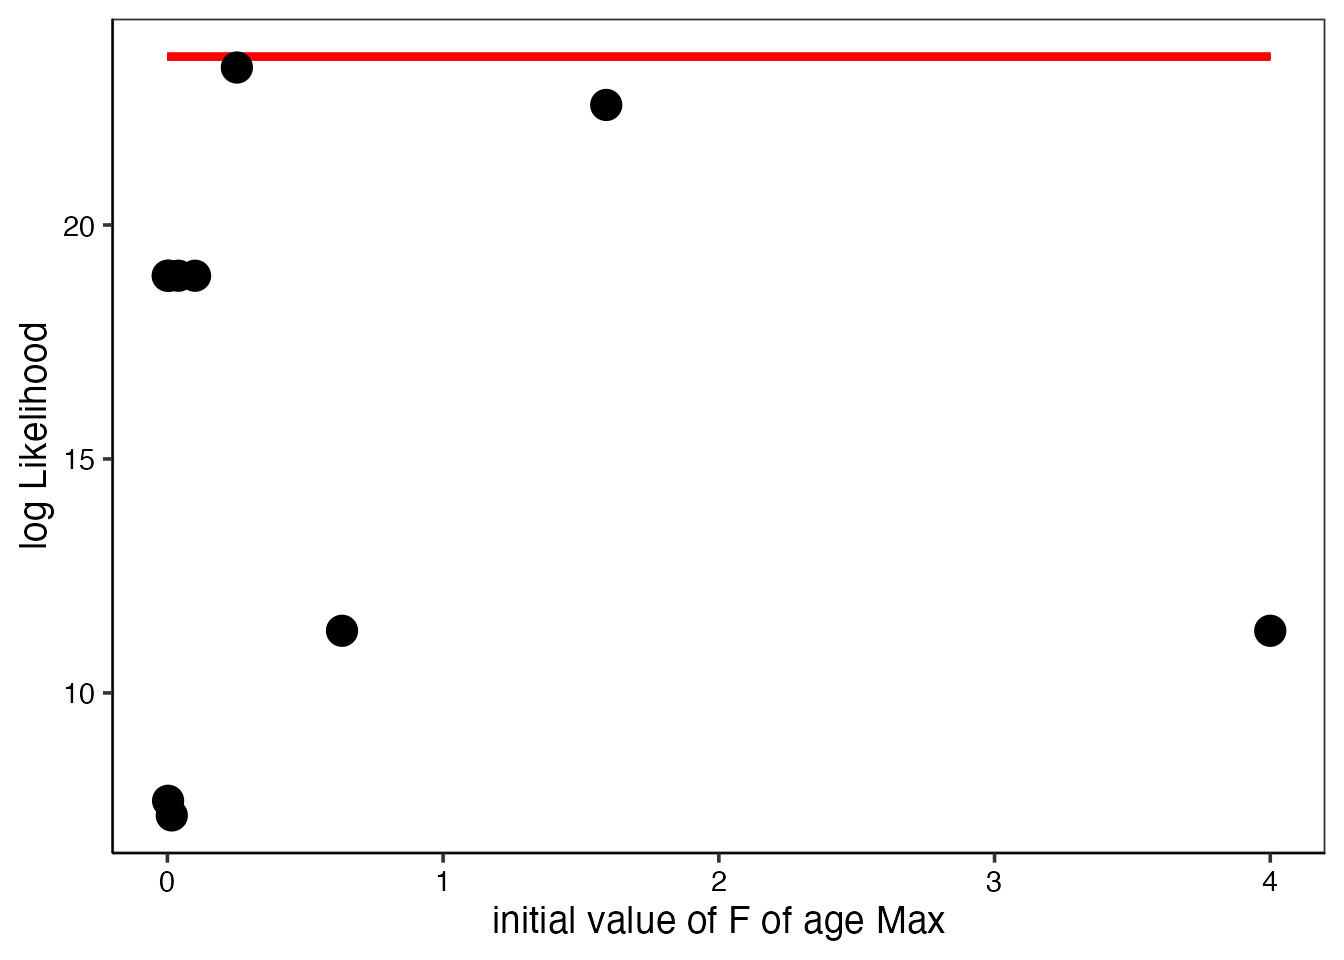
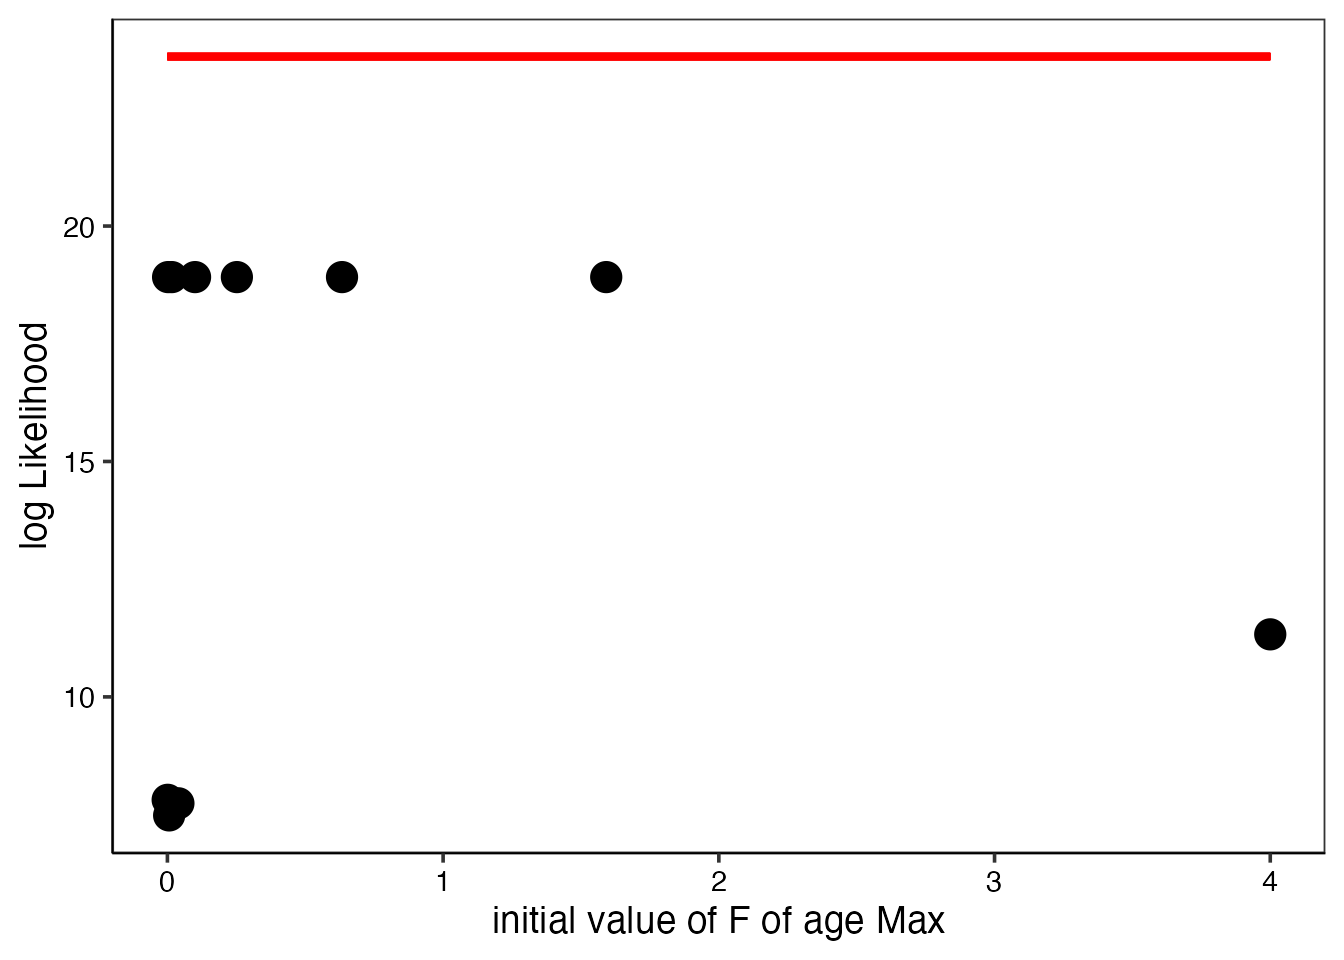
Built site for frasyr: 2.2.0.0@437c62c

diff --git a/articles/Diagnostics-for-VPA.html b/articles/Diagnostics-for-VPA.html
@@ -77,7 +77,7 @@
       <h1 data-toc-skip>VPAモデル診断スクリプト</h1>
                         <h4 data-toc-skip class="author">Kohei Hamabe &amp; Momoko Ichinokawa</h4>
             
-            <h4 data-toc-skip class="date">2021-06-17</h4>
+            <h4 data-toc-skip class="date">2021-06-18</h4>
       
       
       <div class="hidden name"><code>Diagnostics-for-VPA.Rmd</code></div>
@@ -440,7 +440,7 @@
 <p>を指定します。コマンドは以下の通りです。</p>
 <div class="sourceCode" id="cb25"><pre class="downlit sourceCode r">
 <code class="sourceCode R"><span class="va">res_vpa_jitter</span> <span class="op">&lt;-</span> <span class="fu"><a href="../reference/do_estcheck_vpa.html">do_estcheck_vpa</a></span><span class="op">(</span><span class="va">res_vpa_estb</span>, n_ite<span class="op">=</span><span class="fl">10</span><span class="op">)</span></code></pre></div>
-<pre><code>Maximum likelihood in jitter analysis is:  23.36542 
+<pre><code>Maximum likelihood in jitter analysis is:  18.91587 
 Likelihood with estimated parameters is:  23.60018 </code></pre>
 <p>最初に引数で与えたVPA結果について、</p>
 <ul>
@@ -596,7 +596,7 @@ Likelihood with estimated parameters is:  23.60018 </code></pre>
 <span class="kw">for</span><span class="op">(</span><span class="va">i</span> <span class="kw">in</span> <span class="fl">1</span><span class="op">:</span><span class="fl">10</span><span class="op">)</span> <span class="va">res_tmp</span><span class="op">[</span><span class="va">i</span><span class="op">]</span> <span class="op">&lt;-</span> <span class="fu"><a href="https://rdrr.io/r/base/numeric.html" class="external-link">as.numeric</a></span><span class="op">(</span><span class="va">res_vpa_bootstrap</span><span class="op">$</span><span class="va">res_boot</span><span class="op">[[</span><span class="va">i</span><span class="op">]</span><span class="op">]</span><span class="op">$</span><span class="va">Fc.at.age</span><span class="op">[</span><span class="fl">4</span><span class="op">]</span><span class="op">)</span>
 <span class="fu"><a href="https://rdrr.io/r/stats/quantile.html" class="external-link">quantile</a></span><span class="op">(</span><span class="va">res_tmp</span>, probs <span class="op">=</span> <span class="fu"><a href="https://rdrr.io/r/base/c.html" class="external-link">c</a></span><span class="op">(</span><span class="fl">0.025</span>,<span class="fl">0.5</span>,<span class="fl">0.975</span><span class="op">)</span><span class="op">)</span></code></pre></div>
 <pre><code>     2.5%       50%     97.5% 
-0.5490324 0.6477810 6.5806335 </code></pre>
+0.5579671 0.6608951 1.1476038 </code></pre>
 <p>この他、各パラメータの相関関係について、ブートストラップ標本を基にプロットが得られます。</p>
 <div class="sourceCode" id="cb43"><pre class="downlit sourceCode r">
 <code class="sourceCode R"><span class="va">res_vpa_bootstrap</span><span class="op">$</span><span class="va">plot_cor</span></code></pre></div>

diff --git a/reference/SRplot_gg.html b/reference/SRplot_gg.html
@@ -132,19 +132,7 @@
     <p>再生産関係をプロットする関数</p>
     </div>
 
-    <div class="ref-usage sourceCode"><pre class='sourceCode r'><code><span class='fu'>SRplot_gg</span><span class='op'>(</span>
-  <span class='va'>SR_result</span>,
-  refs <span class='op'>=</span> <span class='cn'>NULL</span>,
-  xscale <span class='op'>=</span> <span class='fl'>1000</span>,
-  xlabel <span class='op'>=</span> <span class='st'>"\u5343繝医Φ"</span>,
-  yscale <span class='op'>=</span> <span class='fl'>1</span>,
-  ylabel <span class='op'>=</span> <span class='st'>"\u5c3e"</span>,
-  labeling.year <span class='op'>=</span> <span class='cn'>NULL</span>,
-  add.info <span class='op'>=</span> <span class='cn'>TRUE</span>,
-  recruit_intercept <span class='op'>=</span> <span class='fl'>0</span>,
-  plot_CI <span class='op'>=</span> <span class='cn'>FALSE</span>,
-  CI <span class='op'>=</span> <span class='fl'>0.9</span>
-<span class='op'>)</span></code></pre></div>
+    <div class="ref-usage sourceCode"><pre class='sourceCode r'><code><span class='fu'>SRplot_gg</span><span class='op'>(</span><span class='va'>...</span><span class='op'>)</span></code></pre></div>
 
     <h2 class="hasAnchor" id="arguments"><a class="anchor" href="#arguments"></a>Arguments</h2>
     <table class="ref-arguments">

diff --git a/reference/plot_kobe_gg.html b/reference/plot_kobe_gg.html
@@ -144,8 +144,7 @@
   write.vline <span class='op'>=</span> <span class='cn'>TRUE</span>,
   ylab.type <span class='op'>=</span> <span class='st'>"U"</span>,
   labeling.year <span class='op'>=</span> <span class='cn'>NULL</span>,
-  RP.label <span class='op'>=</span> <span class='fu'><a href='https://rdrr.io/r/base/c.html'>c</a></span><span class='op'>(</span><span class='st'>"\u76ee\u6a19\u7ba1\u7406\u57fa\u6e96\u5024"</span>,
-    <span class='st'>"\u9650\u754c\u7ba1\u7406\u57fa\u6e96\u5024"</span>, <span class='st'>"\u7981\u6f01\u6c34\u6e96"</span><span class='op'>)</span>,
+  RP.label <span class='op'>=</span> <span class='fu'><a href='https://rdrr.io/r/base/c.html'>c</a></span><span class='op'>(</span><span class='st'>"目標管理基準値"</span>, <span class='st'>"限界管理基準値"</span>, <span class='st'>"禁漁水準"</span><span class='op'>)</span>,
   refs.color <span class='op'>=</span> <span class='fu'><a href='https://rdrr.io/r/base/c.html'>c</a></span><span class='op'>(</span><span class='st'>"#00533E"</span>, <span class='st'>"#edb918"</span>, <span class='st'>"#C73C2E"</span><span class='op'>)</span>,
   Fratio <span class='op'>=</span> <span class='cn'>NULL</span>,
   yscale <span class='op'>=</span> <span class='fl'>1.2</span>,

diff --git a/reference/plot_HCR.html b/reference/plot_HCR.html
@@ -147,8 +147,7 @@
   col.Ftarget <span class='op'>=</span> <span class='st'>"black"</span>,
   col.betaFtarget <span class='op'>=</span> <span class='st'>"gray"</span>,
   is.text <span class='op'>=</span> <span class='cn'>TRUE</span>,
-  RP.label <span class='op'>=</span> <span class='fu'><a href='https://rdrr.io/r/base/c.html'>c</a></span><span class='op'>(</span><span class='st'>"\u76ee\u6a19\u7ba1\u7406\u57fa\u6e96\u5024"</span>,
-    <span class='st'>"\u9650\u754c\u7ba1\u7406\u57fa\u6e96\u5024"</span>, <span class='st'>"\u7981\u6f01\u6c34\u6e96"</span><span class='op'>)</span>
+  RP.label <span class='op'>=</span> <span class='fu'><a href='https://rdrr.io/r/base/c.html'>c</a></span><span class='op'>(</span><span class='st'>"目標管理基準値"</span>, <span class='st'>"限界管理基準値"</span>, <span class='st'>"禁漁水準"</span><span class='op'>)</span>
 <span class='op'>)</span></code></pre></div>
 
     <h2 class="hasAnchor" id="arguments"><a class="anchor" href="#arguments"></a>Arguments</h2>

diff --git a/reference/plot_HCR_by_catch.html b/reference/plot_HCR_by_catch.html
@@ -152,8 +152,7 @@
   is.text <span class='op'>=</span> <span class='cn'>TRUE</span>,
   HCR_function_name <span class='op'>=</span> <span class='st'>"HCR_default"</span>,
   Pope <span class='op'>=</span> <span class='cn'>TRUE</span>,
-  RP.label <span class='op'>=</span> <span class='fu'><a href='https://rdrr.io/r/base/c.html'>c</a></span><span class='op'>(</span><span class='st'>"\u76ee\u6a19\u7ba1\u7406\u57fa\u6e96\u5024"</span>,
-    <span class='st'>"\u9650\u754c\u7ba1\u7406\u57fa\u6e96\u5024"</span>, <span class='st'>"\u7981\u6f01\u6c34\u6e96"</span><span class='op'>)</span>
+  RP.label <span class='op'>=</span> <span class='fu'><a href='https://rdrr.io/r/base/c.html'>c</a></span><span class='op'>(</span><span class='st'>"目標管理基準値"</span>, <span class='st'>"限界管理基準値"</span>, <span class='st'>"禁漁水準"</span><span class='op'>)</span>
 <span class='op'>)</span></code></pre></div>
 
     <h2 class="hasAnchor" id="arguments"><a class="anchor" href="#arguments"></a>Arguments</h2>

diff --git a/reference/fit.SR.html b/reference/fit.SR.html
@@ -146,6 +146,7 @@
   bio_par <span class='op'>=</span> <span class='cn'>NULL</span>,
   plus_group <span class='op'>=</span> <span class='cn'>TRUE</span>,
   is_jitter <span class='op'>=</span> <span class='cn'>FALSE</span>,
+  HS_fix_b <span class='op'>=</span> <span class='cn'>NULL</span>,
   gamma <span class='op'>=</span> <span class='fl'>0.01</span>
 <span class='op'>)</span></code></pre></div>
 
@@ -187,6 +188,10 @@
     <tr>
       <th>plus_group</th>
       <td><p>hなどを計算するときに、プラスグループを考慮するか</p></td>
+    </tr>
+    <tr>
+      <th>HS_fix_b</th>
+      <td><p>SR=HSのとき、折れ点bを固定して計算したい時に値を代入。デフォルットはNULL。ただし、min(SSB)/100より小さい値は入れないこと。</p></td>
     </tr>
     <tr>
       <th>gamma</th>

diff --git a/reference/plot_residual_vpa.html b/reference/plot_residual_vpa.html
@@ -135,7 +135,7 @@
     <div class="ref-usage sourceCode"><pre class='sourceCode r'><code><span class='fu'>plot_residual_vpa</span><span class='op'>(</span>
   <span class='va'>res</span>,
   index_name <span class='op'>=</span> <span class='cn'>NULL</span>,
-  plot_smooth <span class='op'>=</span> <span class='cn'>TRUE</span>,
+  plot_smooth <span class='op'>=</span> <span class='cn'>FALSE</span>,
   plot_year <span class='op'>=</span> <span class='cn'>FALSE</span>,
   plot_scale <span class='op'>=</span> <span class='cn'>FALSE</span>,
   resid_CI <span class='op'>=</span> <span class='cn'>TRUE</span>,

diff --git a/reference/tryall_SR.html b/reference/tryall_SR.html
@@ -135,9 +135,6 @@
     <div class="ref-usage sourceCode"><pre class='sourceCode r'><code><span class='fu'>tryall_SR</span><span class='op'>(</span><span class='va'>data_SR</span>, plus_group <span class='op'>=</span> <span class='cn'>TRUE</span>, bio_par <span class='op'>=</span> <span class='cn'>NULL</span><span class='op'>)</span></code></pre></div>
 
 
-    <h2 class="hasAnchor" id="details"><a class="anchor" href="#details"></a>Details</h2>
-
-    <p>@export</p>
 
   </div>
   <div class="col-md-3 hidden-xs hidden-sm" id="pkgdown-sidebar">

diff --git a/reference/make_stock_table.html b/reference/make_stock_table.html
@@ -139,7 +139,7 @@
   <span class='va'>yr_future_start</span>,
   <span class='va'>yr_abc</span>,
   <span class='va'>faa_pre_abc</span>,
-  unit <span class='op'>=</span> <span class='st'>"\u767e繝医Φ"</span>
+  unit <span class='op'>=</span> <span class='st'>"百トン"</span>
 <span class='op'>)</span></code></pre></div>
 
     <h2 class="hasAnchor" id="arguments"><a class="anchor" href="#arguments"></a>Arguments</h2>

diff --git a/articles/fittingSR.html b/articles/fittingSR.html
@@ -77,7 +77,7 @@
       <h1 data-toc-skip>fitSR関数を使った再生産関係の推定</h1>
                         <h4 data-toc-skip class="author">Shota Nisijima &amp; Shin Fukui</h4>
             
-            <h4 data-toc-skip class="date">2021-06-17</h4>
+            <h4 data-toc-skip class="date">2021-06-18</h4>
       
       
       <div class="hidden name"><code>fittingSR.Rmd</code></div>

diff --git a/articles/vpa.html b/articles/vpa.html
@@ -77,7 +77,7 @@
       <h1 data-toc-skip>VPA関数を使った資源量推定</h1>
                         <h4 data-toc-skip class="author">市野川桃子</h4>
             
-            <h4 data-toc-skip class="date">2021-06-17</h4>
+            <h4 data-toc-skip class="date">2021-06-18</h4>
       
       
       <div class="hidden name"><code>vpa.Rmd</code></div>
